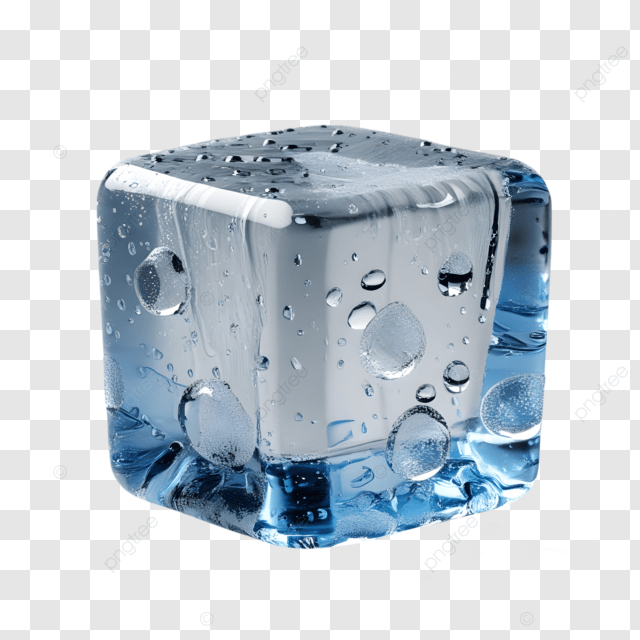
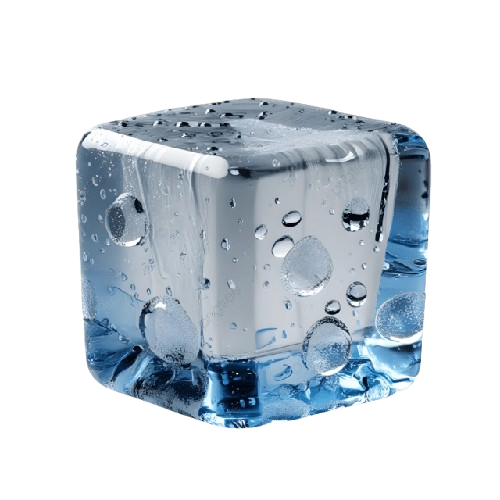
invincible color flashing and pacman direction changes

diff --git a/pacman.py b/pacman.py
@@ -84,7 +84,7 @@ class PowerUp(pygame.sprite.Sprite):
         self.type = p_type
         try:
             img_file = 'images/star.png' if p_type == 'star' else 'images/ice.png'
-            self.image = pygame.transform.scale(pygame.image.load(img_file).convert_alpha(), (25, 25))
+            self.image = pygame.transform.scale(pygame.image.load(img_file).convert_alpha(), (40, 40))
         except:
             self.image = pygame.Surface([20, 20])
             self.image.fill(orange if p_type == 'star' else cyan)
@@ -112,18 +112,53 @@ class Player(pygame.sprite.Sprite):
             self.image_normal = pygame.transform.scale(self.image_normal, (30, 30))
         except:
             self.image_normal = pygame.Surface([30, 30]); self.image_normal.fill(yellow)
+        
+        # 預先生成不同顏色的Pacman版本用於無敵時閃爍
+        self.image_colors = [self.image_normal]  # 原色 (黃色)
+        for color in [red, blue, purple, cyan]:  # 紅、藍、紫、青
+            colored_img = self.image_normal.copy()
+            colored_img.fill(color, special_flags=pygame.BLEND_RGB_MULT)
+            self.image_colors.append(colored_img)
+        
         self.image = self.image_normal
         self.rect = self.image.get_rect(topleft=(x, y))
         self.change_x = self.change_y = 0
+        self.direction = (1, 0)  # 預設面向右邊
 
     def changespeed(self, x, y):
         self.change_x += x; self.change_y += y
 
+    def set_direction(self, x, y):
+        """只用來設置方向 (按鍵時調用)"""
+        if x != 0:
+            self.direction = (x // abs(x), 0) if x != 0 else (0, 0)
+        elif y != 0:
+            self.direction = (0, y // abs(y)) if y != 0 else (0, 0)
+
+    def get_rotated_image(self, image, direction):
+        """根據方向旋轉圖像"""
+        dx, dy = direction
+        # (1,0)右=0°, (-1,0)左=180°, (0,-1)上=90°, (0,1)下=270°
+        if dx == 1:  # 右
+            return pygame.transform.rotate(image, 0)
+        elif dx == -1:  # 左
+            return pygame.transform.rotate(image, 180)
+        elif dy == -1:  # 上
+            return pygame.transform.rotate(image, 90)
+        elif dy == 1:  # 下
+            return pygame.transform.rotate(image, 270)
+        return image
+
     def update(self, walls, gate, invincible=False):
-        if invincible and (pygame.time.get_ticks() // 200) % 2 == 0:
-            self.image = pygame.Surface([30, 30]); self.image.fill(orange)
+        if invincible:
+            # 無敵時快速切換顏色 (每100ms切換一次，共5種顏色)
+            color_idx = (pygame.time.get_ticks() // 100) % len(self.image_colors)
+            base_image = self.image_colors[color_idx]
         else:
-            self.image = self.image_normal
+            base_image = self.image_normal
+        
+        # 根據方向旋轉圖像
+        self.image = self.get_rotated_image(base_image, self.direction)
         
         old_x, old_y = self.rect.topleft
         self.rect.left += self.change_x
@@ -211,7 +246,7 @@ def startGame():
     gate = pygame.sprite.Group()
     gate.add(Wall(282,242,42,2,white))
     all_sprites.add(gate)
-    Pacman = Player(287, 439, "images/Trollman.png"); all_sprites.add(Pacman)
+    Pacman = Player(287, 439, "images/pacman.png"); all_sprites.add(Pacman)
     
     valid_points = []
     for r in range(19):
@@ -254,10 +289,18 @@ def startGame():
                 g = Ghost(pt[0]-15, pt[1]-15, random.choice(ghost_imgs)); monsta_list.add(g); all_sprites.add(g)
             
             if event.type == pygame.KEYDOWN:
-                if event.key == pygame.K_LEFT: Pacman.changespeed(-30,0)
-                if event.key == pygame.K_RIGHT: Pacman.changespeed(30,0)
-                if event.key == pygame.K_UP: Pacman.changespeed(0,-30)
-                if event.key == pygame.K_DOWN: Pacman.changespeed(0,30)
+                if event.key == pygame.K_LEFT: 
+                    Pacman.changespeed(-30,0)
+                    Pacman.set_direction(-30, 0)
+                if event.key == pygame.K_RIGHT: 
+                    Pacman.changespeed(30,0)
+                    Pacman.set_direction(30, 0)
+                if event.key == pygame.K_UP: 
+                    Pacman.changespeed(0,-30)
+                    Pacman.set_direction(0, -30)
+                if event.key == pygame.K_DOWN: 
+                    Pacman.changespeed(0,30)
+                    Pacman.set_direction(0, 30)
             if event.type == pygame.KEYUP:
                 if event.key == pygame.K_LEFT: Pacman.changespeed(30,0)
                 if event.key == pygame.K_RIGHT: Pacman.changespeed(-30,0)
@@ -328,8 +371,8 @@ def startGame():
         # 顯示文字
         s_text = font.render(f"Score: {score}/{total_blocks}  Bombs: {Pacman.bomb_count}", True, red)
         screen.blit(s_text, [10, 10])
-        if is_inv: screen.blit(font.render("INVINCIBLE!", True, orange), [250, 10])
-        if is_froz: screen.blit(font.render("GHOSTS FROZEN!", True, cyan), [400, 10])
+        if is_inv: screen.blit(font.render("INVINCIBLE!", True, orange), [280, 10])
+        if is_froz: screen.blit(font.render("GHOSTS FROZEN", True, cyan), [410, 10])
         
         pygame.display.flip()
         clock.tick(10)